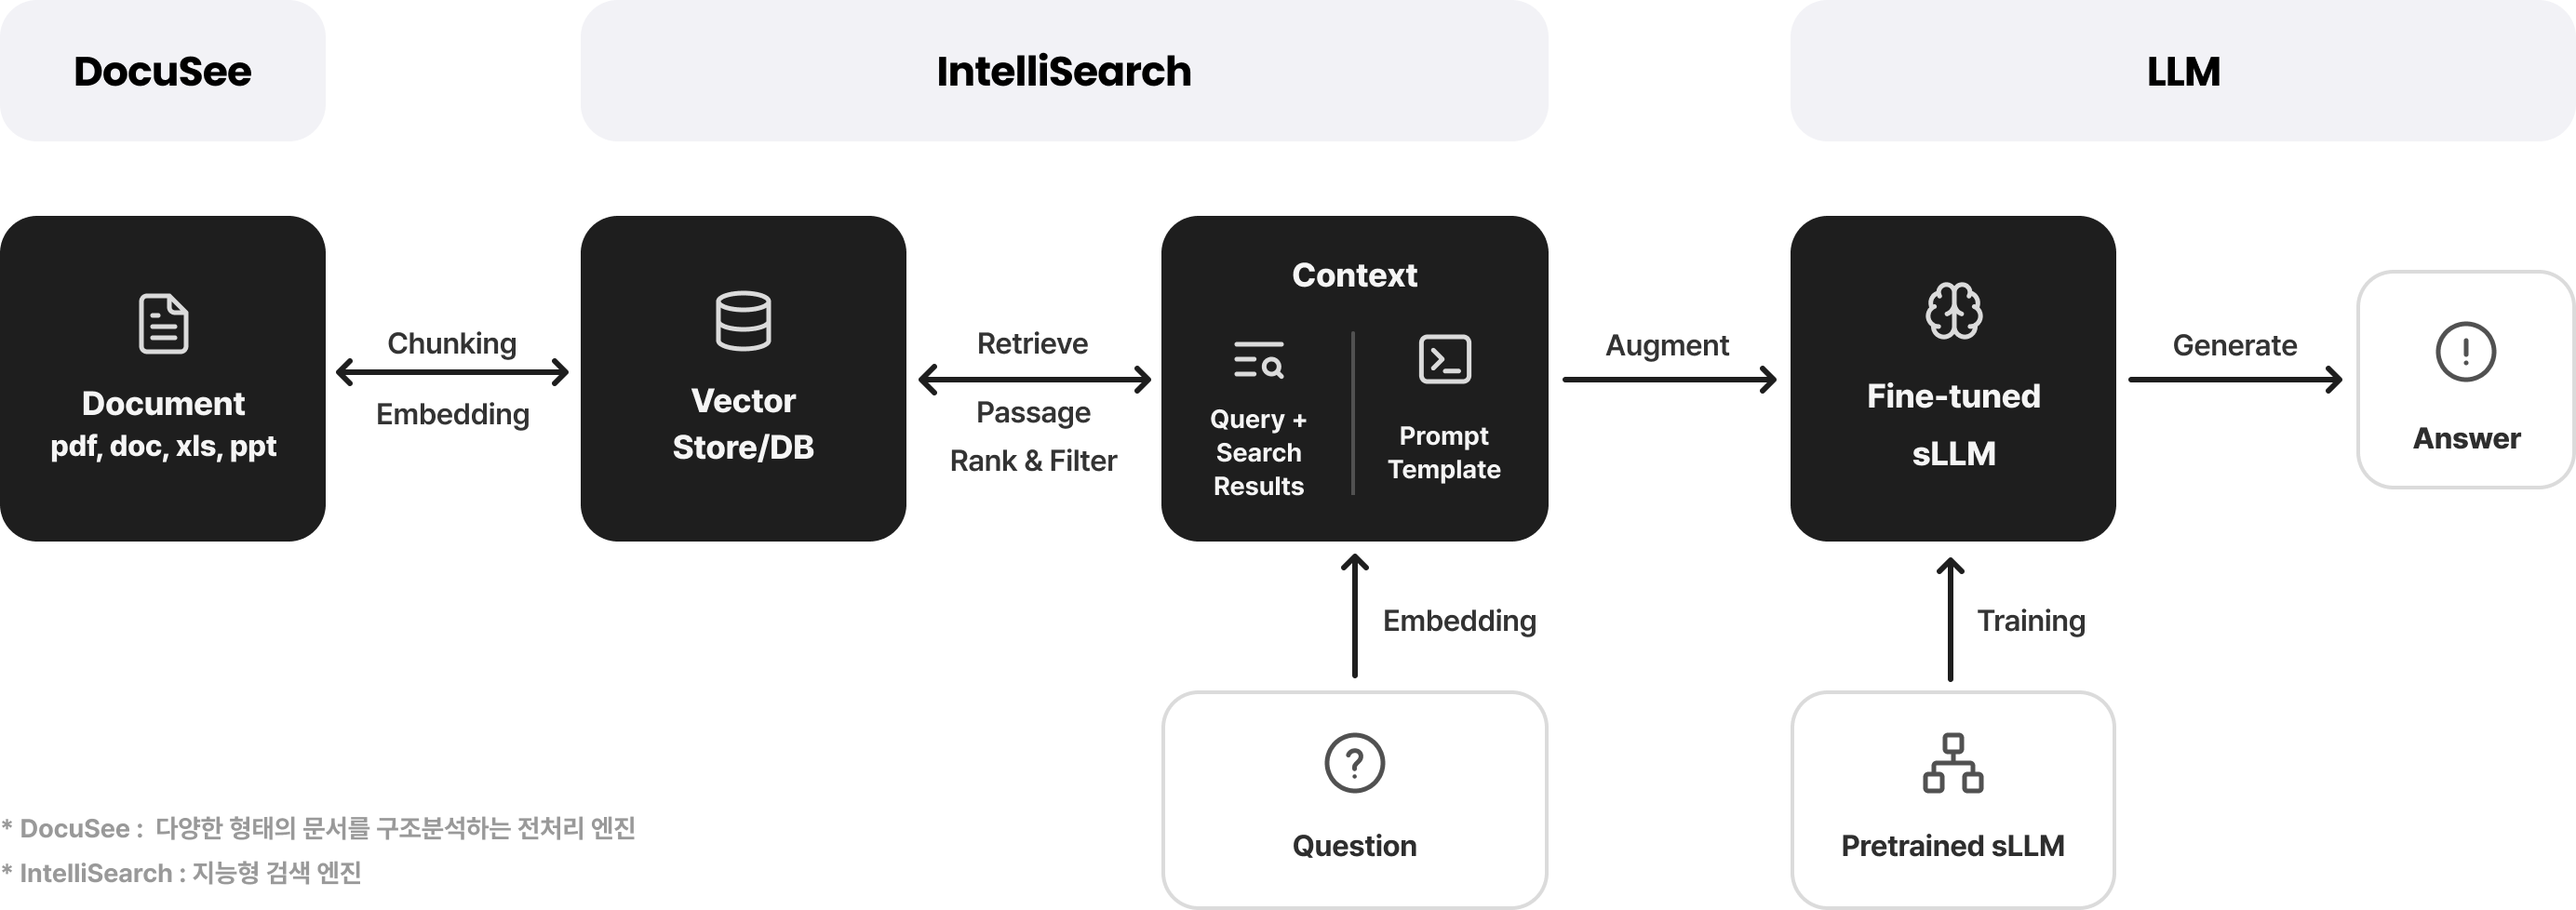
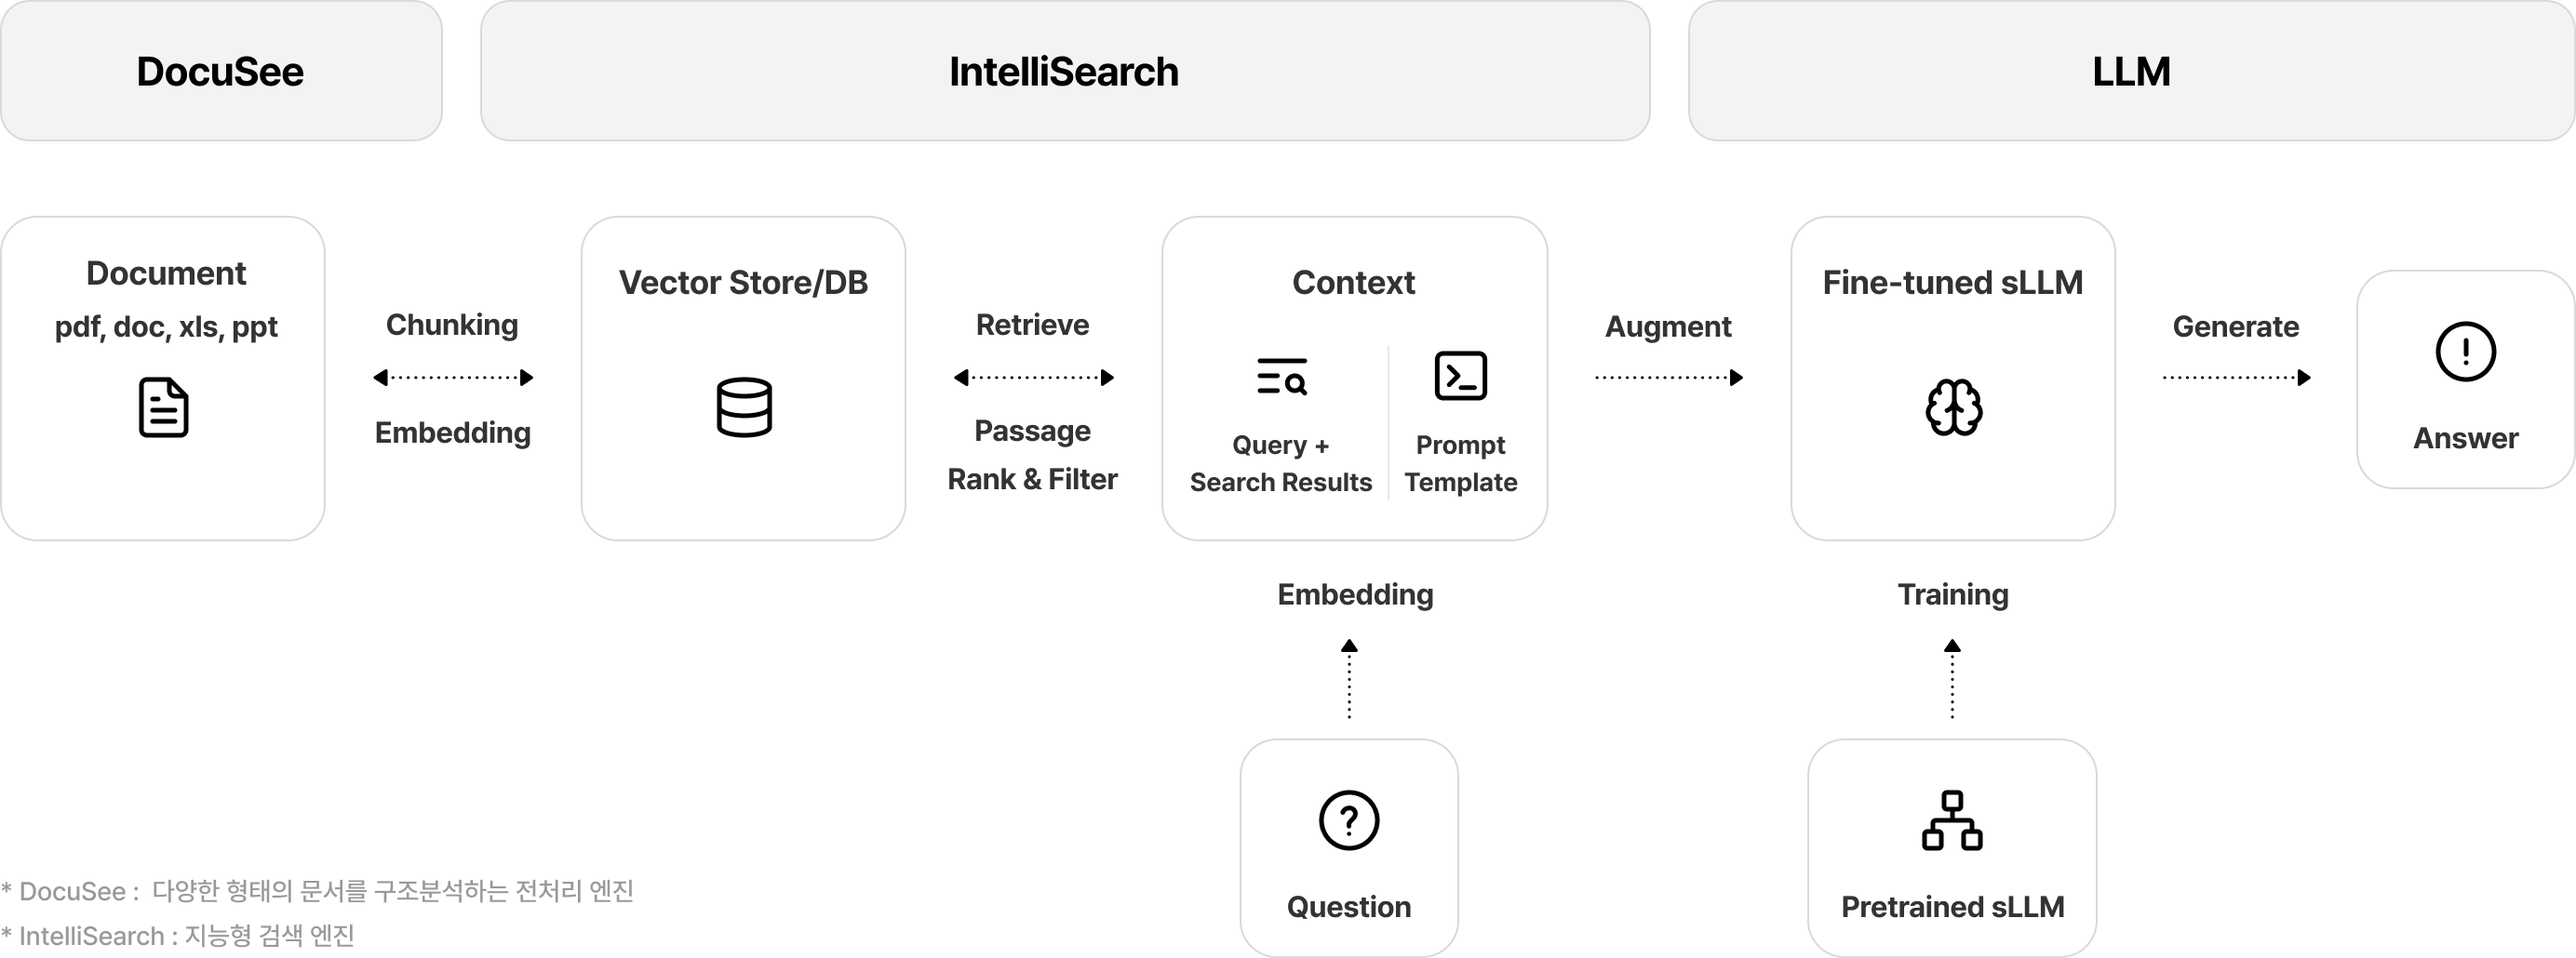
rag 도식 원복

diff --git a/ai/solution/RAG/index.html b/ai/solution/RAG/index.html
@@ -147,14 +147,20 @@
                         </p>
                     </div>
                     <div class="shape-wrapper" data-aos="fade-up" data-aos-duration="800" data-aos-easing="ease-out-cubic">
-                        <img src="/resource/images/ai/solution/RAG/shape-img.png" alt="" width="100%" height="100%" />
-                        <div class="shape-header">
+                        <img
+                            src="/resource/images/ai/solution/RAG/shape-img.png"
+                            alt=""
+                            width="100%"
+                            height="100%"
+                            style="display: block"
+                        />
+                        <!-- <div class="shape-header">
                             <div class="shape-title">DocuSee</div>
                             <div class="shape-title full">IntelliSearch</div>
                             <div class="shape-title md">LLM</div>
                         </div>
                         <div class="shape-flow">
-                            <!-- 1행: 상단 흐름도 -->
+                            
                             <div class="shape-row">
                                 <div class="shape-box gap-11">
                                     <span>
@@ -192,7 +198,7 @@
                                     <span>Answer</span>
                                 </div>
                             </div>
-                            <!-- 2행: 하단 연결 -->
+                            
                             <div class="shape-row shape-row-bottom">
                                 <div class="shape-box md context">
                                     <img src="/resource/images/ai/solution/RAG/ico-question.svg" alt="Question" />
@@ -262,7 +268,7 @@
                                 * DocuSee : 다양한 형태의 문서를 구조분석하는 전처리 엔진<br />
                                 * IntelliSearch : 지능형 검색 엔진
                             </p>
-                        </div>
+                        </div> -->
                     </div>
                 </div>
             </section>
